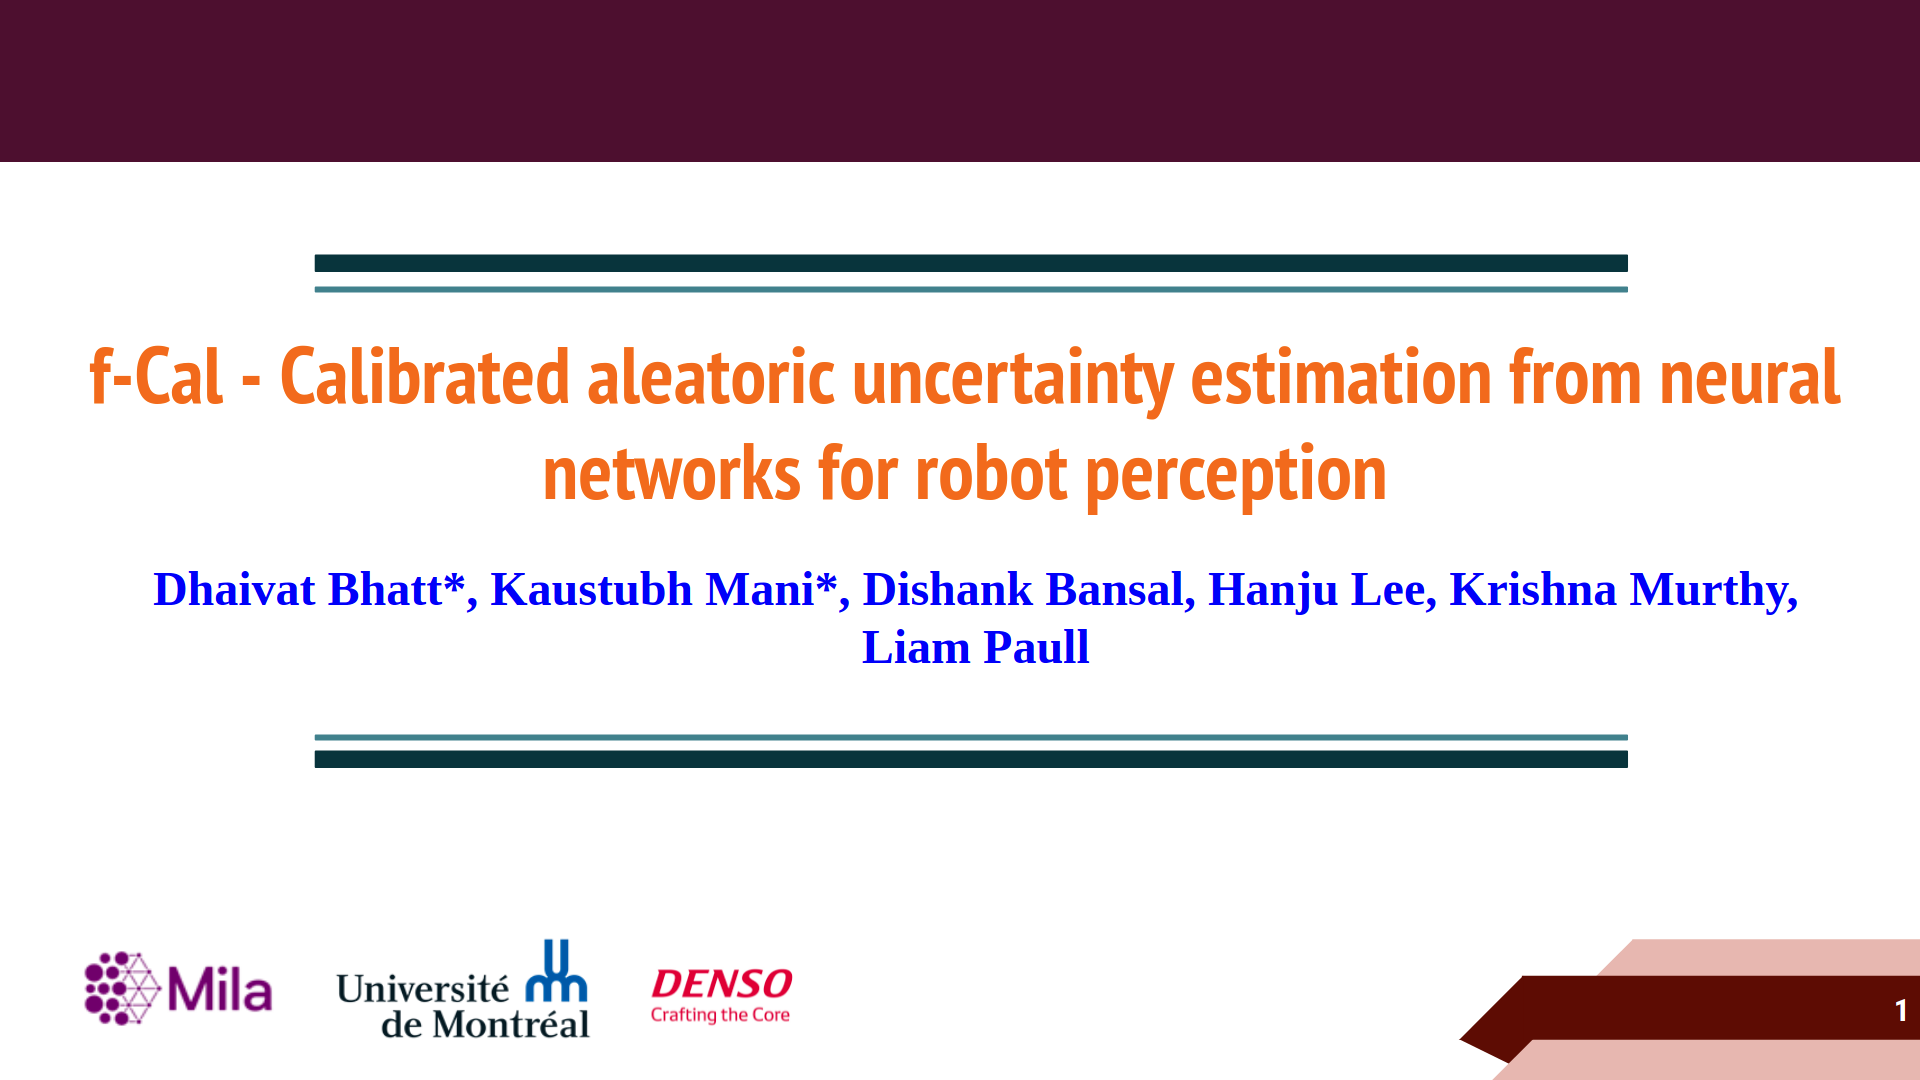
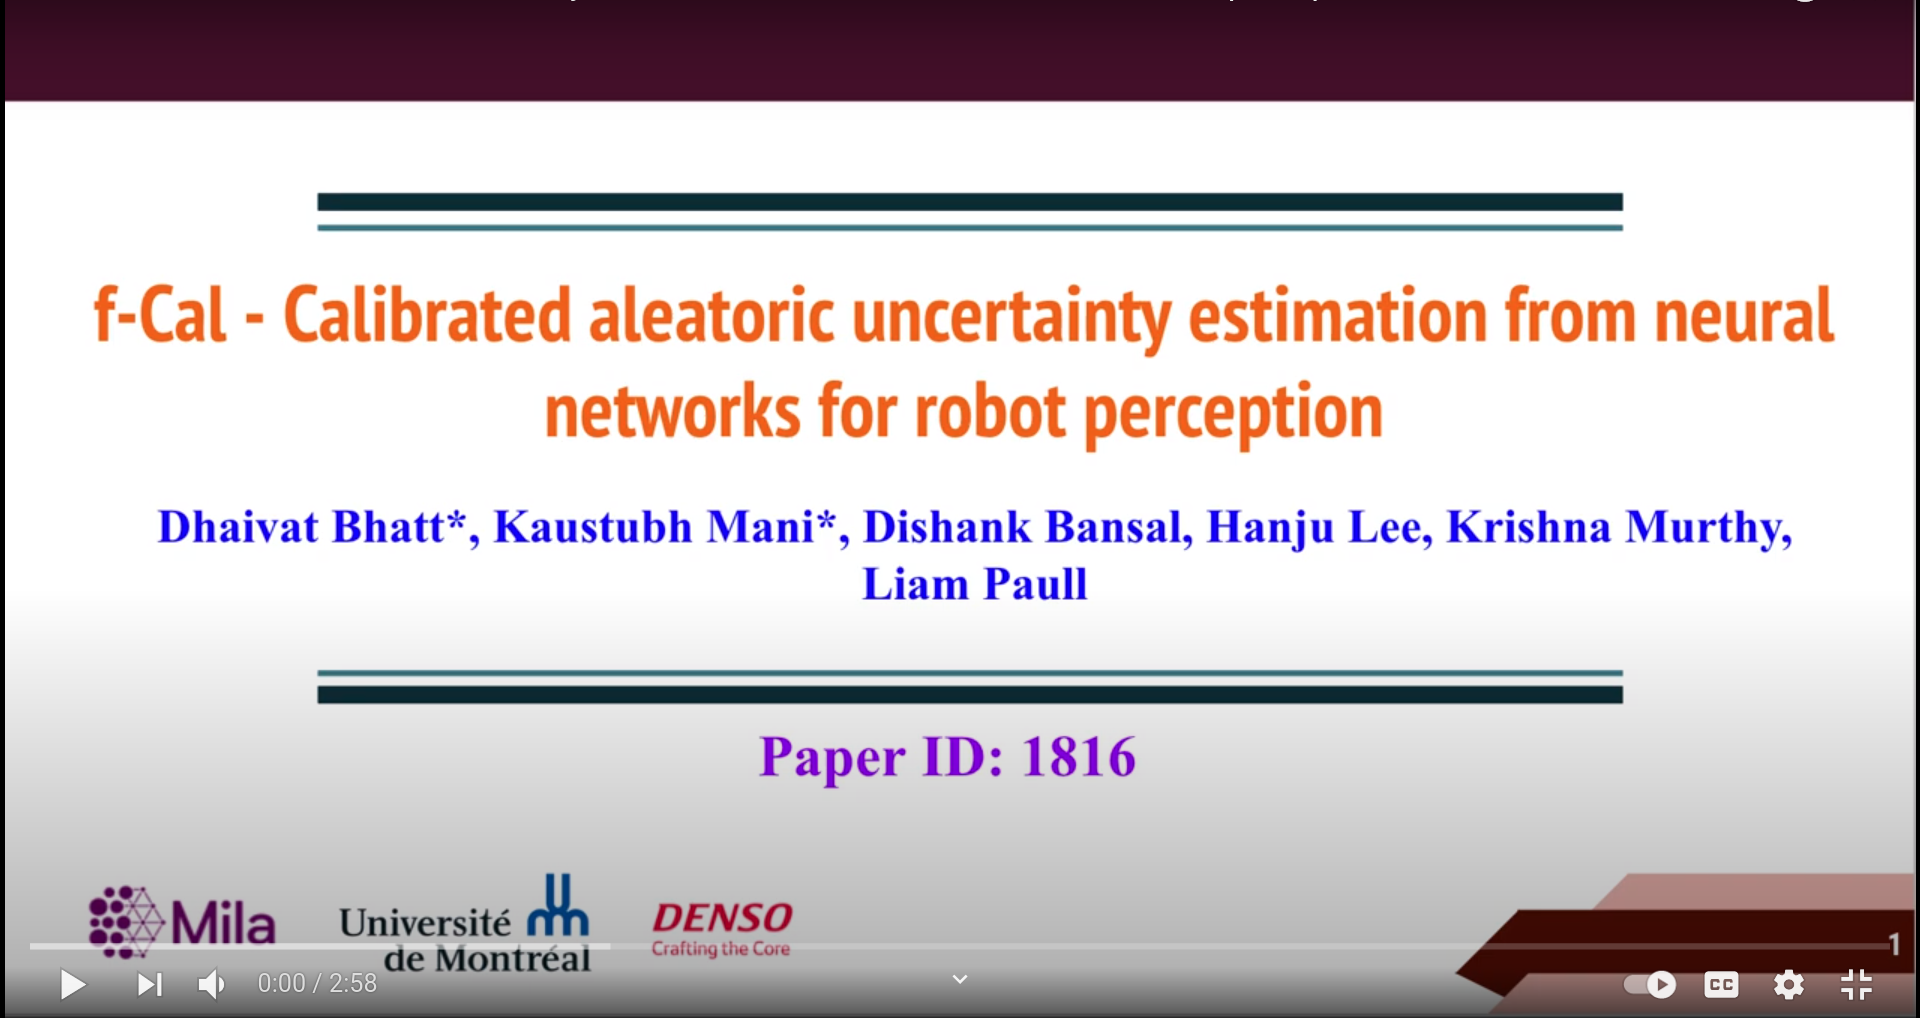
youtube thumbnail

diff --git a/README.md b/README.md
@@ -7,17 +7,9 @@
 
 # Abstract
 
-<!-- <img src="./figures/video-thumbnail.png" width="480" class="center">](https://youtu.be/2JVVfySNATM) -->
+<img src="./figures/video-thumbnail.png" width="480" class="center">](https://youtu.be/2JVVfySNATM)
 
-<iframe
-    width="640"
-    height="480"
-    src="https://www.youtube.com/watch?v=2JVVfySNATM"
-    frameborder="0"
-    allow="autoplay; encrypted-media"
-    allowfullscreen
->
-</iframe>
+
 
 While modern deep neural networks are performant perception modules, performance (accuracy) alone is insufficient, particularly for safety-critical robotic applications such as self-driving vehicles. Robot autonomy stacks also require these otherwise blackbox models to produce reliable and calibrated measures of confidence on their predictions. Existing approaches estimate uncertainty from these neural network perception stacks by modifying network architectures, inference procedure, or loss functions. However, in general, these method slack calibration, meaning that the predictive uncertainties do not faithfully represent the true underlying uncertainties(process noise). Our key insight is that calibration is only achieved by imposing constraints across multiple examples, such as those in a mini-batch; as opposed to existing approaches which only impose constraints per-sample, often leading to overconfident (thus miscalibrated) uncertainty estimates. By enforcing the distribution of outputs of a neural network to resemble a target distribution by minimizing an f-divergence, we obtain significantly better-calibrated models compared to prior approaches. Our approach, *f*-Cal, outperforms existing uncertainty calibration approaches on robot perception tasks such as object detection and monocular depth estimation over multiple real-world benchmarks.
 
